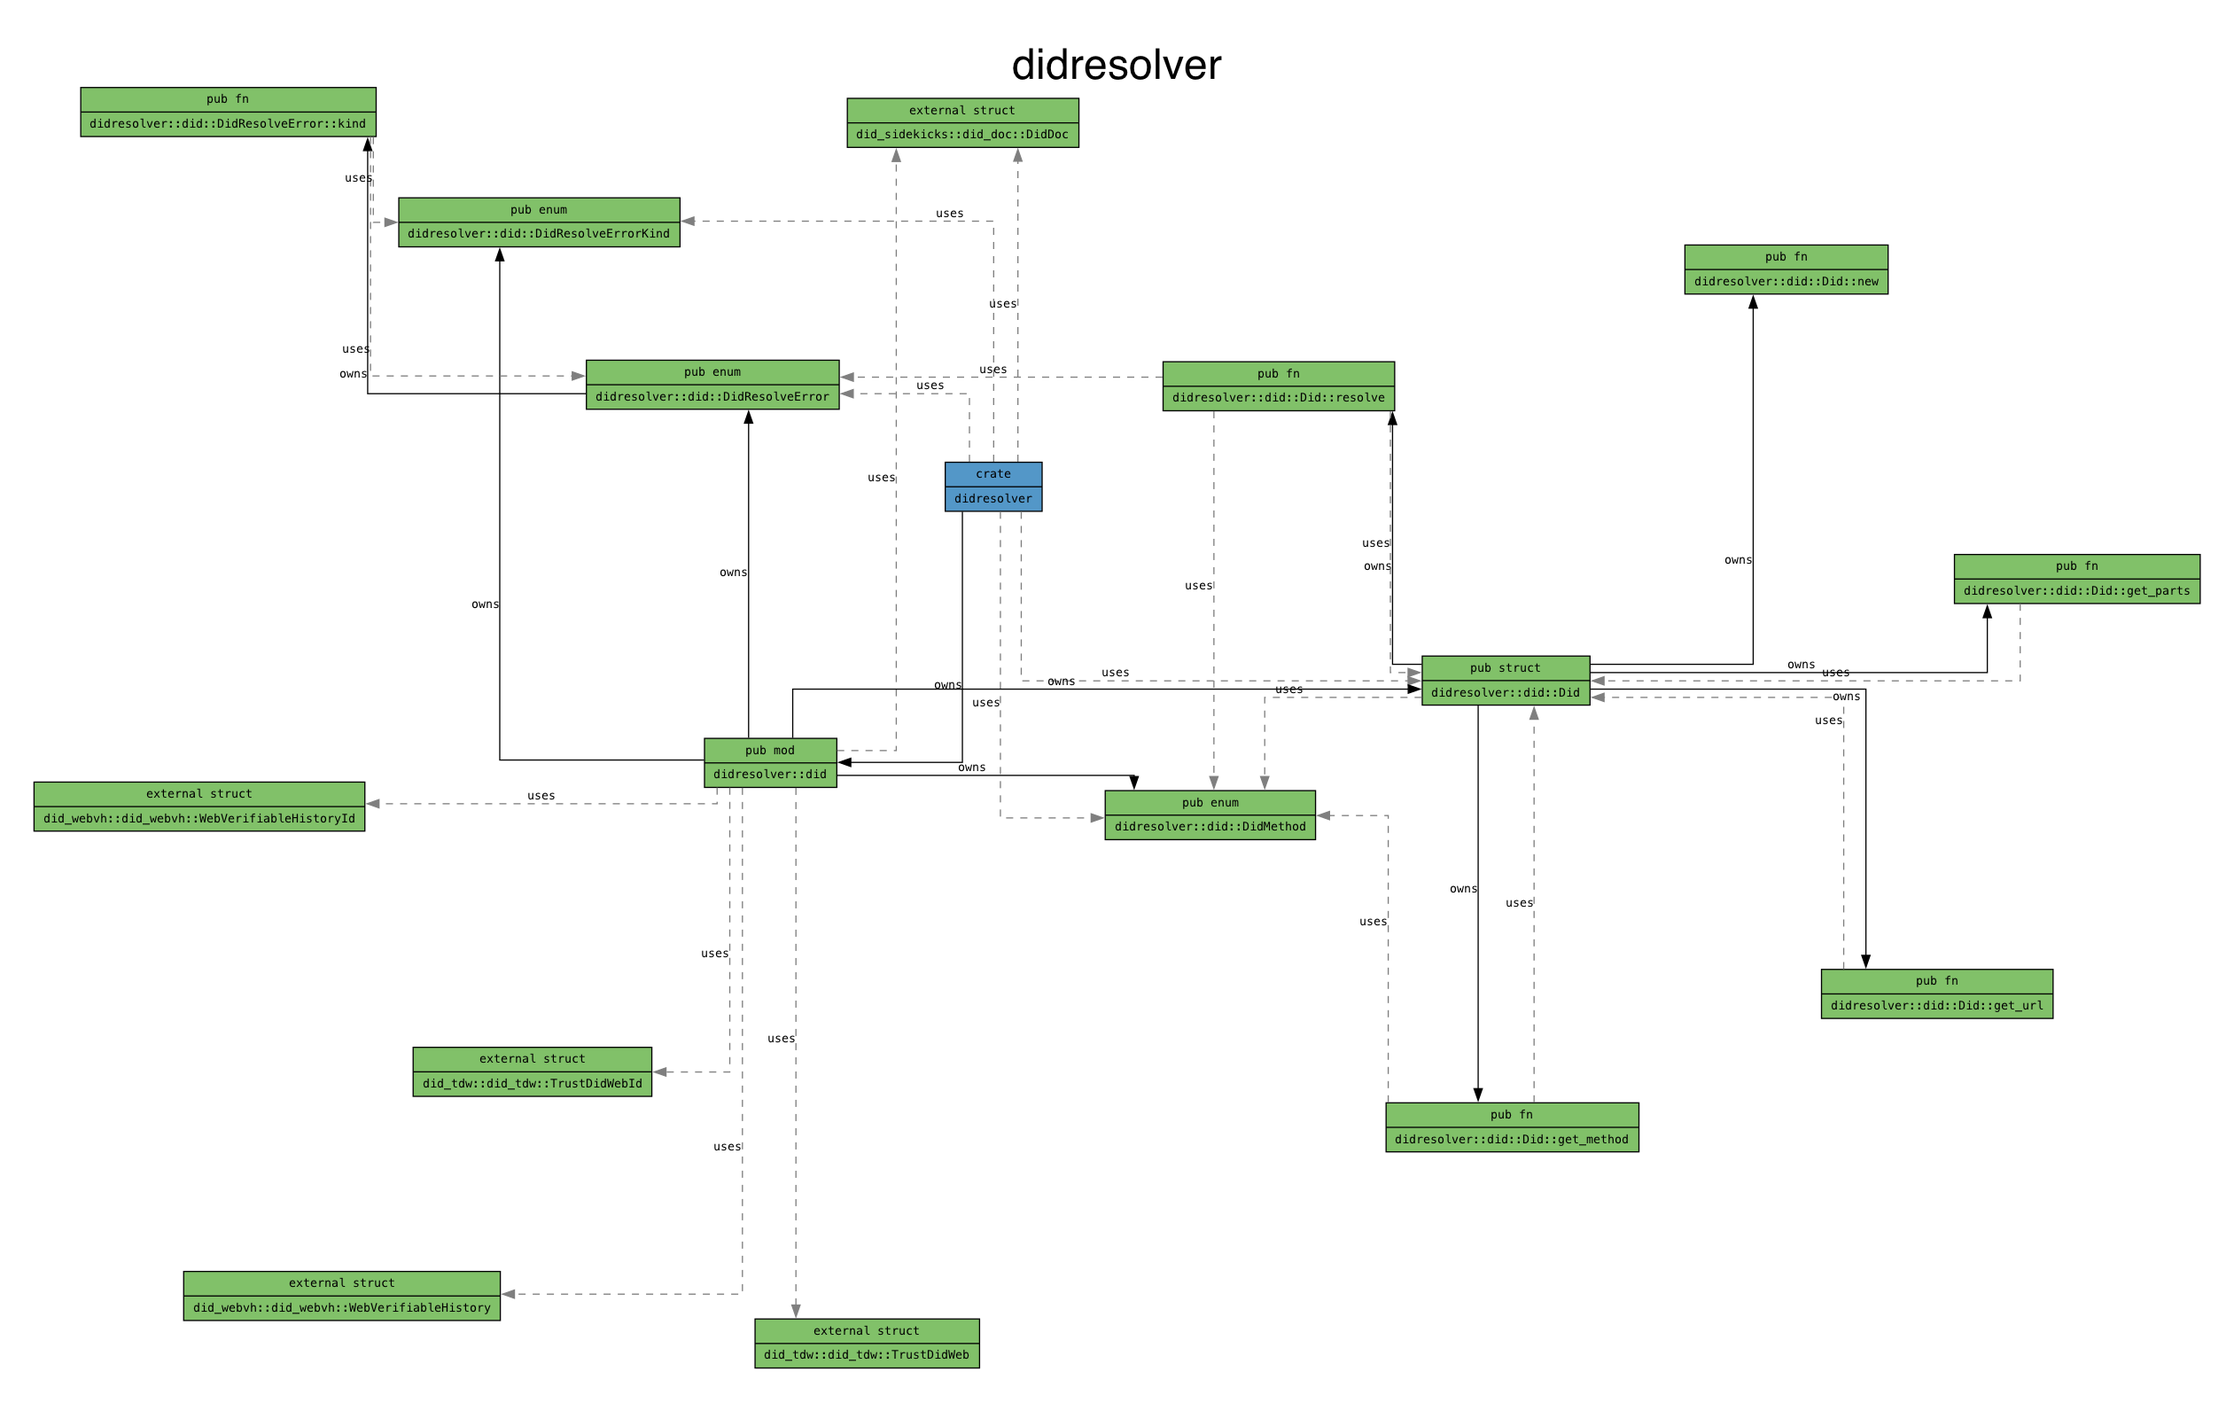
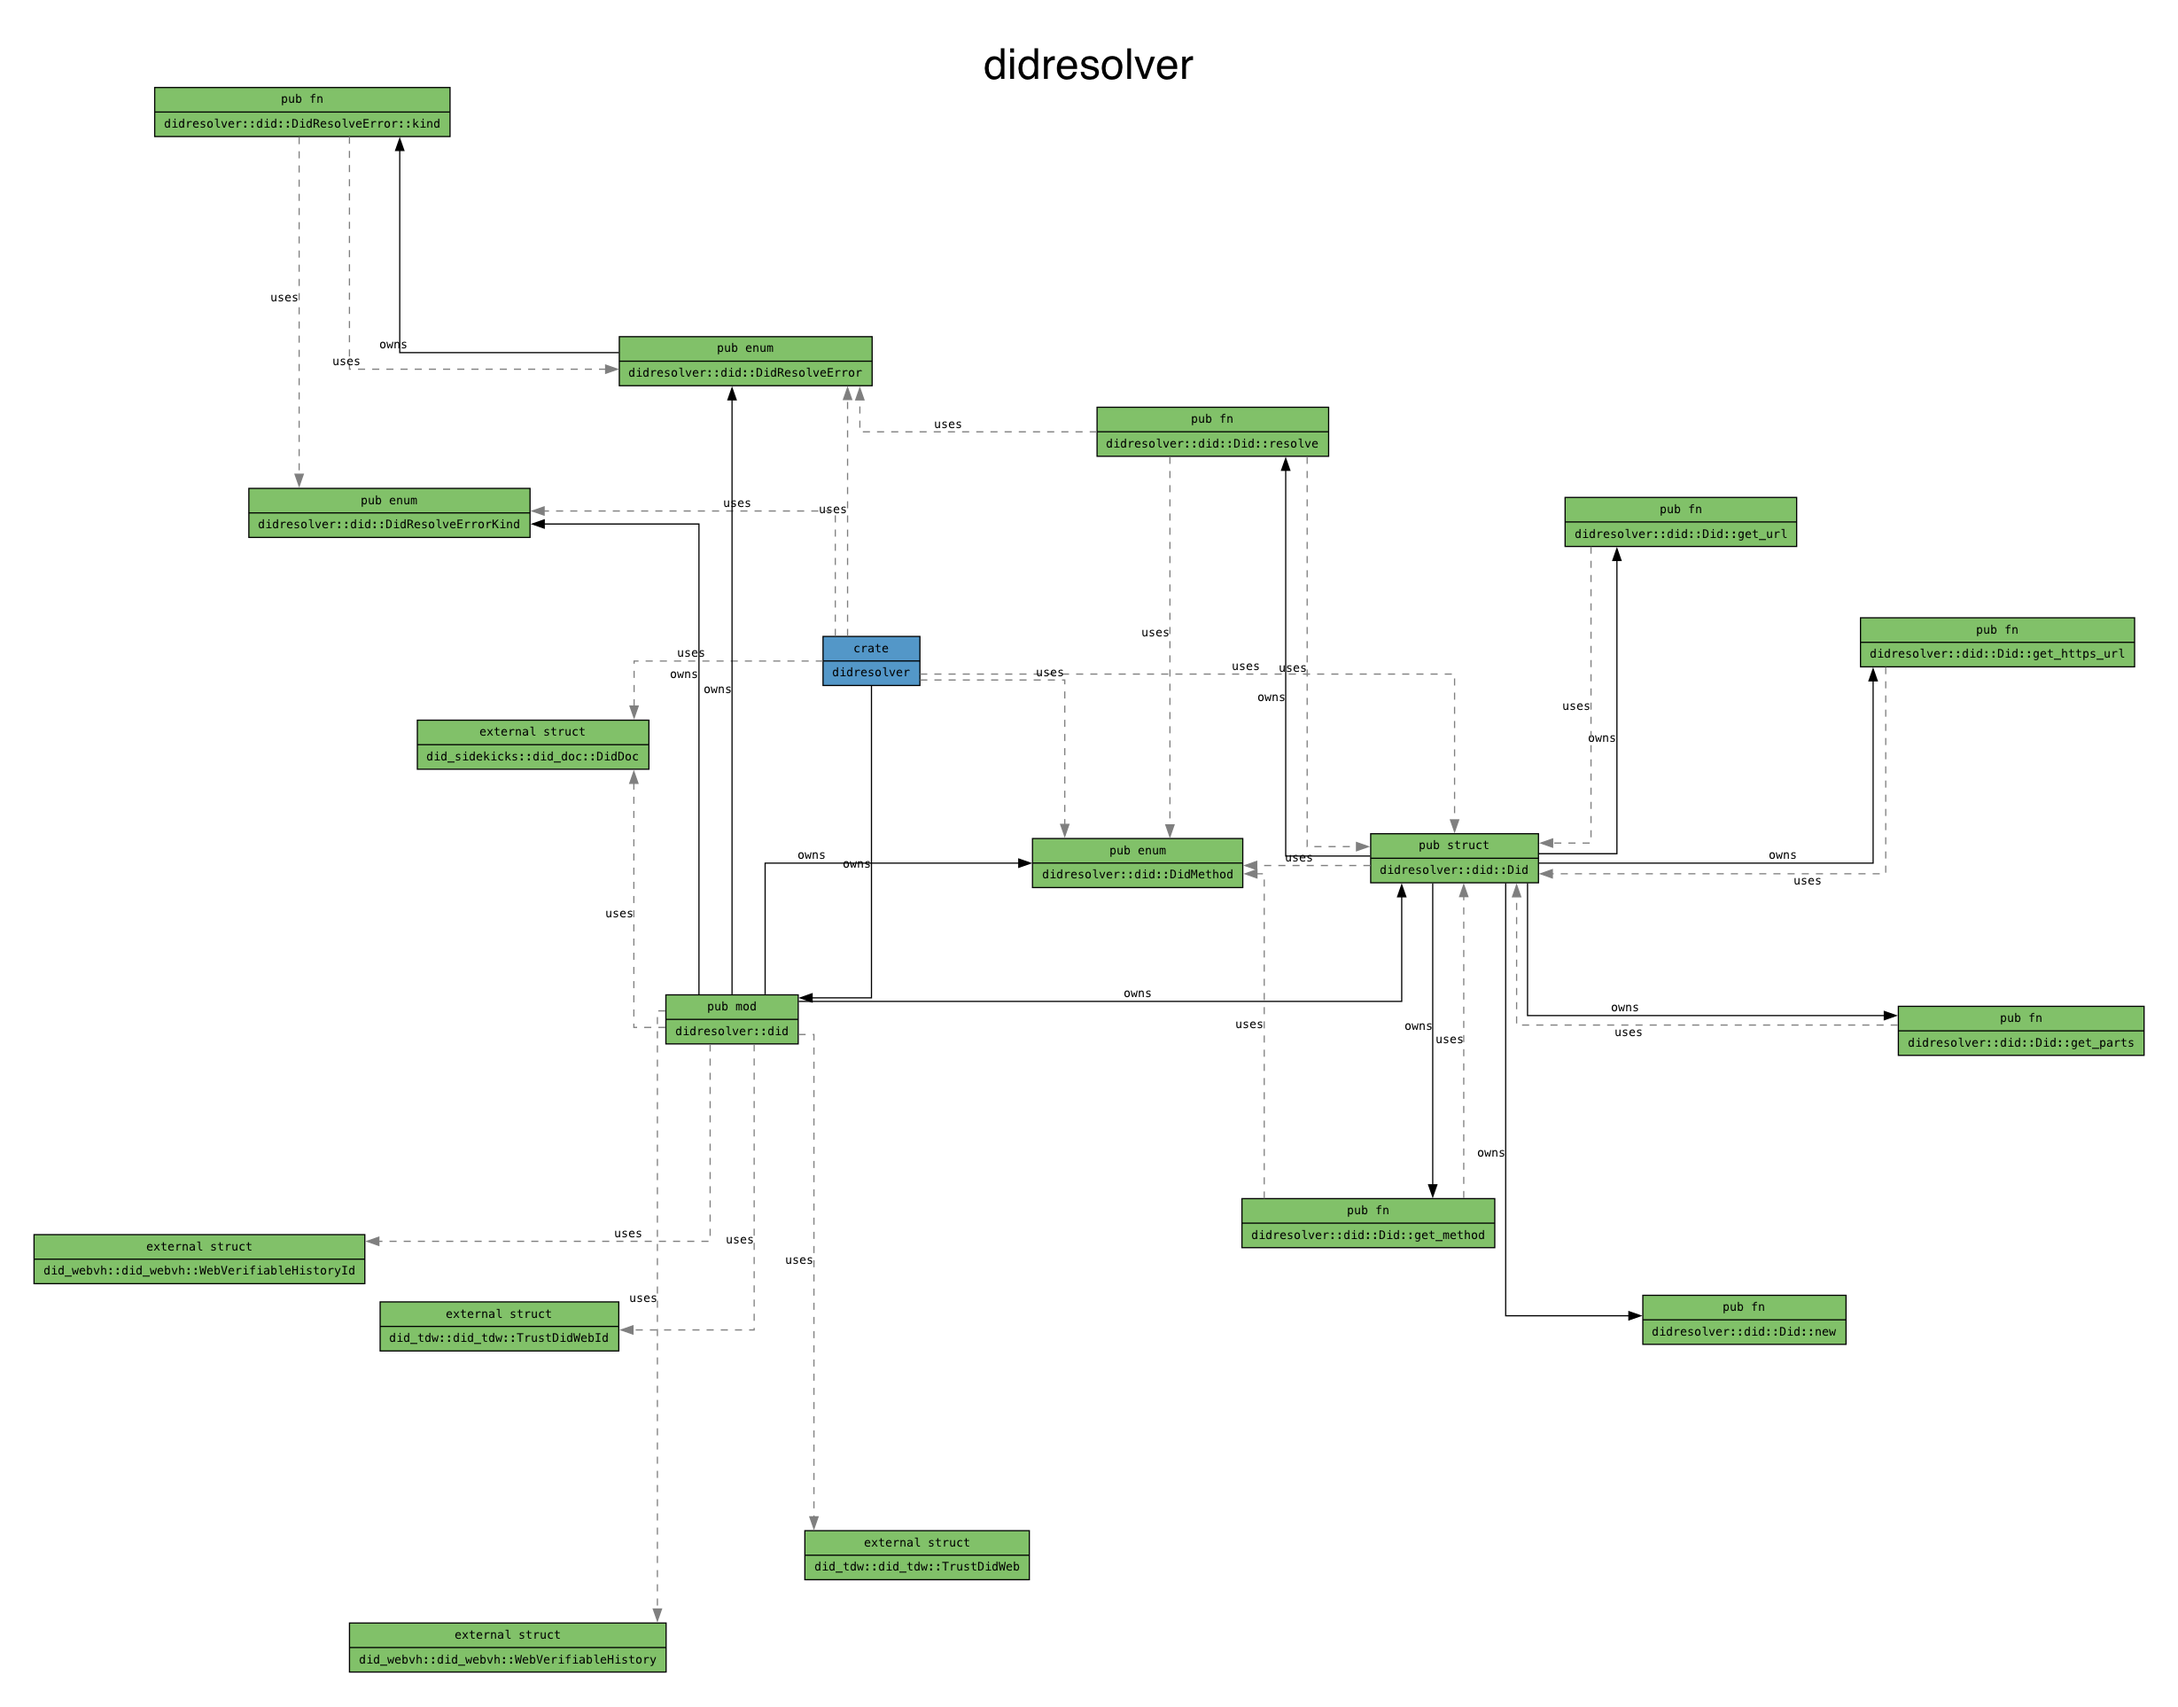
EIDOMNI-126: DID::get_url deprecated in favor of DID::get_https_url

diff --git a/src/did.rs b/src/did.rs
@@ -63,7 +63,7 @@ pub enum DidMethod {
 /// that is an enhancement to the `did:web` DID method, providing complementary features
 /// that address `did:web`’s limitations as a long-lasting DID.
 ///
-/// Also, the legacy specification [`did:tdw`](https://identity.foundation/didwebvh/v0.3) is supported as well.
+/// Also, the legacy DID method [`did:tdw`](https://identity.foundation/didwebvh/v0.3) is supported as well.
 #[derive(Debug, PartialEq)]
 // This struct resembles the ssi::dids::DID, which is a way more advanced
 pub struct Did {
@@ -76,22 +76,36 @@ pub struct Did {
 impl Did {
     const DID: &'static str = "did";
 
-    /// The single constructor of [`Did`] expecting either:
-    /// - a [`did:tdw:0.3`   DID](https://identity.foundation/didwebvh/v0.3/#read-resolve) or
-    /// - a [`did:webvh:1.0` DID](https://identity.foundation/didwebvh/v1.0/#read-resolve)
+    /// The single constructor of [`Did`] expecting a
+    /// [DID method-specific identifier](https://identity.foundation/didwebvh/next/#method-specific-identifier) as either:
+    /// - a [`did:tdw:0.3`   DID](https://identity.foundation/didwebvh/v0.3) or
+    /// - a [`did:webvh:1.0` DID](https://identity.foundation/didwebvh/v1.0).
     ///
-    /// In case of error, the available [`DidResolveError`] object features all the detailed
-    /// information required to narrow down the root cause.
+    /// The constructor will attempt to [*transform*](https://identity.foundation/didwebvh/next/#the-did-to-https-transformation)
+    /// the supplied DID method identifier into a valid
+    /// [RFC3986](https://www.rfc-editor.org/rfc/rfc3986)-conform HTTPS URL thus enabling retrival
+    /// of its DID log (via an `HTTP GET`). In case of error, the available [`DidResolveError`]
+    /// object features all the detailed information required to narrow down the root cause.
     ///
     /// A UniFFI-compliant constructor.
     pub fn new(did: String) -> Result<Self, DidResolveError> {
         Self::try_from(did.to_owned())
     }
 
-    /// Returns the url part from the supplied DID, if supported and not malformed.
+    /// Returns the HTTP URL [*transformed*](https://identity.foundation/didwebvh/next/#the-did-to-https-transformation)
+    /// from the DID supplied via constructor.
     ///
     /// A UniFFI-compliant method.
-    pub fn get_url(&self) -> String {
+    #[deprecated(since = "2.2.0", note = "please use `get_http_url` instead")]
+    pub fn get_url(&self) -> Result<String, DidResolveError> {
+        Ok(self.get_https_url())
+    }
+
+    /// Returns the HTTPS URL [*transformed*](https://identity.foundation/didwebvh/next/#the-did-to-https-transformation)
+    /// from the DID supplied via constructor.
+    ///
+    /// A UniFFI-compliant method.
+    pub fn get_https_url(&self) -> String {
         self.url.clone()
     }
 
@@ -111,16 +125,16 @@ impl Did {
     /// information required to narrow down the root cause.
     ///
     /// A UniFFI-compliant method.
-    pub fn resolve(&self, did_log_raw: String) -> Result<Arc<DidDoc>, DidResolveError> {
+    pub fn resolve(&self, did_log: String) -> Result<Arc<DidDoc>, DidResolveError> {
         match self.method {
-            DidMethod::TDW => match TrustDidWeb::read(self.to_string(), did_log_raw) {
+            DidMethod::TDW => match TrustDidWeb::read(self.to_string(), did_log) {
                 Ok(tdw) => match tdw.get_did_doc_obj() {
                     Ok(doc) => Ok(doc),
                     Err(e) => Err(DidResolveError::InvalidDidDoc(e.to_string())),
                 },
                 Err(e) => Err(DidResolveError::InvalidDidLog(e.to_string())),
             },
-            DidMethod::WEBVH => match WebVerifiableHistory::read(self.to_string(), did_log_raw) {
+            DidMethod::WEBVH => match WebVerifiableHistory::read(self.to_string(), did_log) {
                 Ok(web_vh) => match web_vh.get_did_doc_obj() {
                     Ok(doc) => Ok(doc),
                     Err(e) => Err(DidResolveError::InvalidDidDoc(e.to_string())),
@@ -224,7 +238,7 @@ mod tests {
     ) -> Result<(), Box<dyn std::error::Error>> {
         let did_obj = Did::new(did)?; // no error expected here
 
-        let url = did_obj.get_url();
+        let url = did_obj.get_https_url();
         assert!(!url.is_empty());
 
         let did_log_raw = http_client.fetch_url(url);
@@ -467,7 +481,7 @@ mod tests {
         let did_obj = Did::new(did.to_owned()); // no errors expected here
         assert!(did_obj.is_ok());
         let did_obj = did_obj.unwrap(); // panic-safe unwrap call (see the previous line)
-        let url = did_obj.get_url();
+        let url = did_obj.get_https_url();
         assert!(!url.is_empty());
         assert!(url.starts_with("https://"));
         let method = did_obj.get_method();

diff --git a/README.md b/README.md
@@ -71,16 +71,16 @@ fn main() {
     let did = Did::new(String::from("did:webvh:QmXi8p2LNXA6kbc2brwdpXwGETHCrPoFk15yPbLaAu27Pj:gist.githubusercontent.com:vst-bit:20c3f59d8179e324a6e29aef45240db4:raw:7870280f80dfcfb7459ee1488df4ab33f2bcf709"))
         .expect("invalid DID supplied");
 
-    let url = did.get_url();
+    let url = did.get_https_url();
 
-    let did_log_raw = ureq::get(&url)
+    let did_log = ureq::get(&url)
         .call()
         .expect("Failed to call did url")
         .into_body()
         .read_to_string()
         .expect("Failed to read DID to string");
 
-    let did_doc = match did.resolve(did_log_raw) {
+    let did_doc = match did.resolve(did_log) {
         Ok(did_doc) => did_doc,
         Err(reason) => panic!("Error occurred during resolution: {}", reason),
     };
@@ -100,6 +100,7 @@ fn main() {
 crate didresolver
 └── mod did: pub
     ├── struct Did: pub
+    │   ├── fn get_https_url: pub
     │   ├── fn get_method: pub
     │   ├── fn get_parts: pub
     │   ├── fn get_url: pub
@@ -115,7 +116,7 @@ crate didresolver
 
 ![Dependencies](/images/dependencies.png)
 
-The graph is also available in other layouts: [dot](/images/dependencies-dot.png), [fdp](/images/dependencies-fdp.png), [neato](/images/dependencies-neato.png), [sfdp](/images/dependencies-sfdp.png), [twopi](/images/dependencies-twopi.png)  
+The graph is also available in other layouts: [circo](/images/dependencies-circo.png), [dot](/images/dependencies-dot.png), [fdp](/images/dependencies-fdp.png), [neato](/images/dependencies-neato.png), [sfdp](/images/dependencies-sfdp.png), [twopi](/images/dependencies-twopi.png)  
 
 ## Missing Features and Known Issues
 
